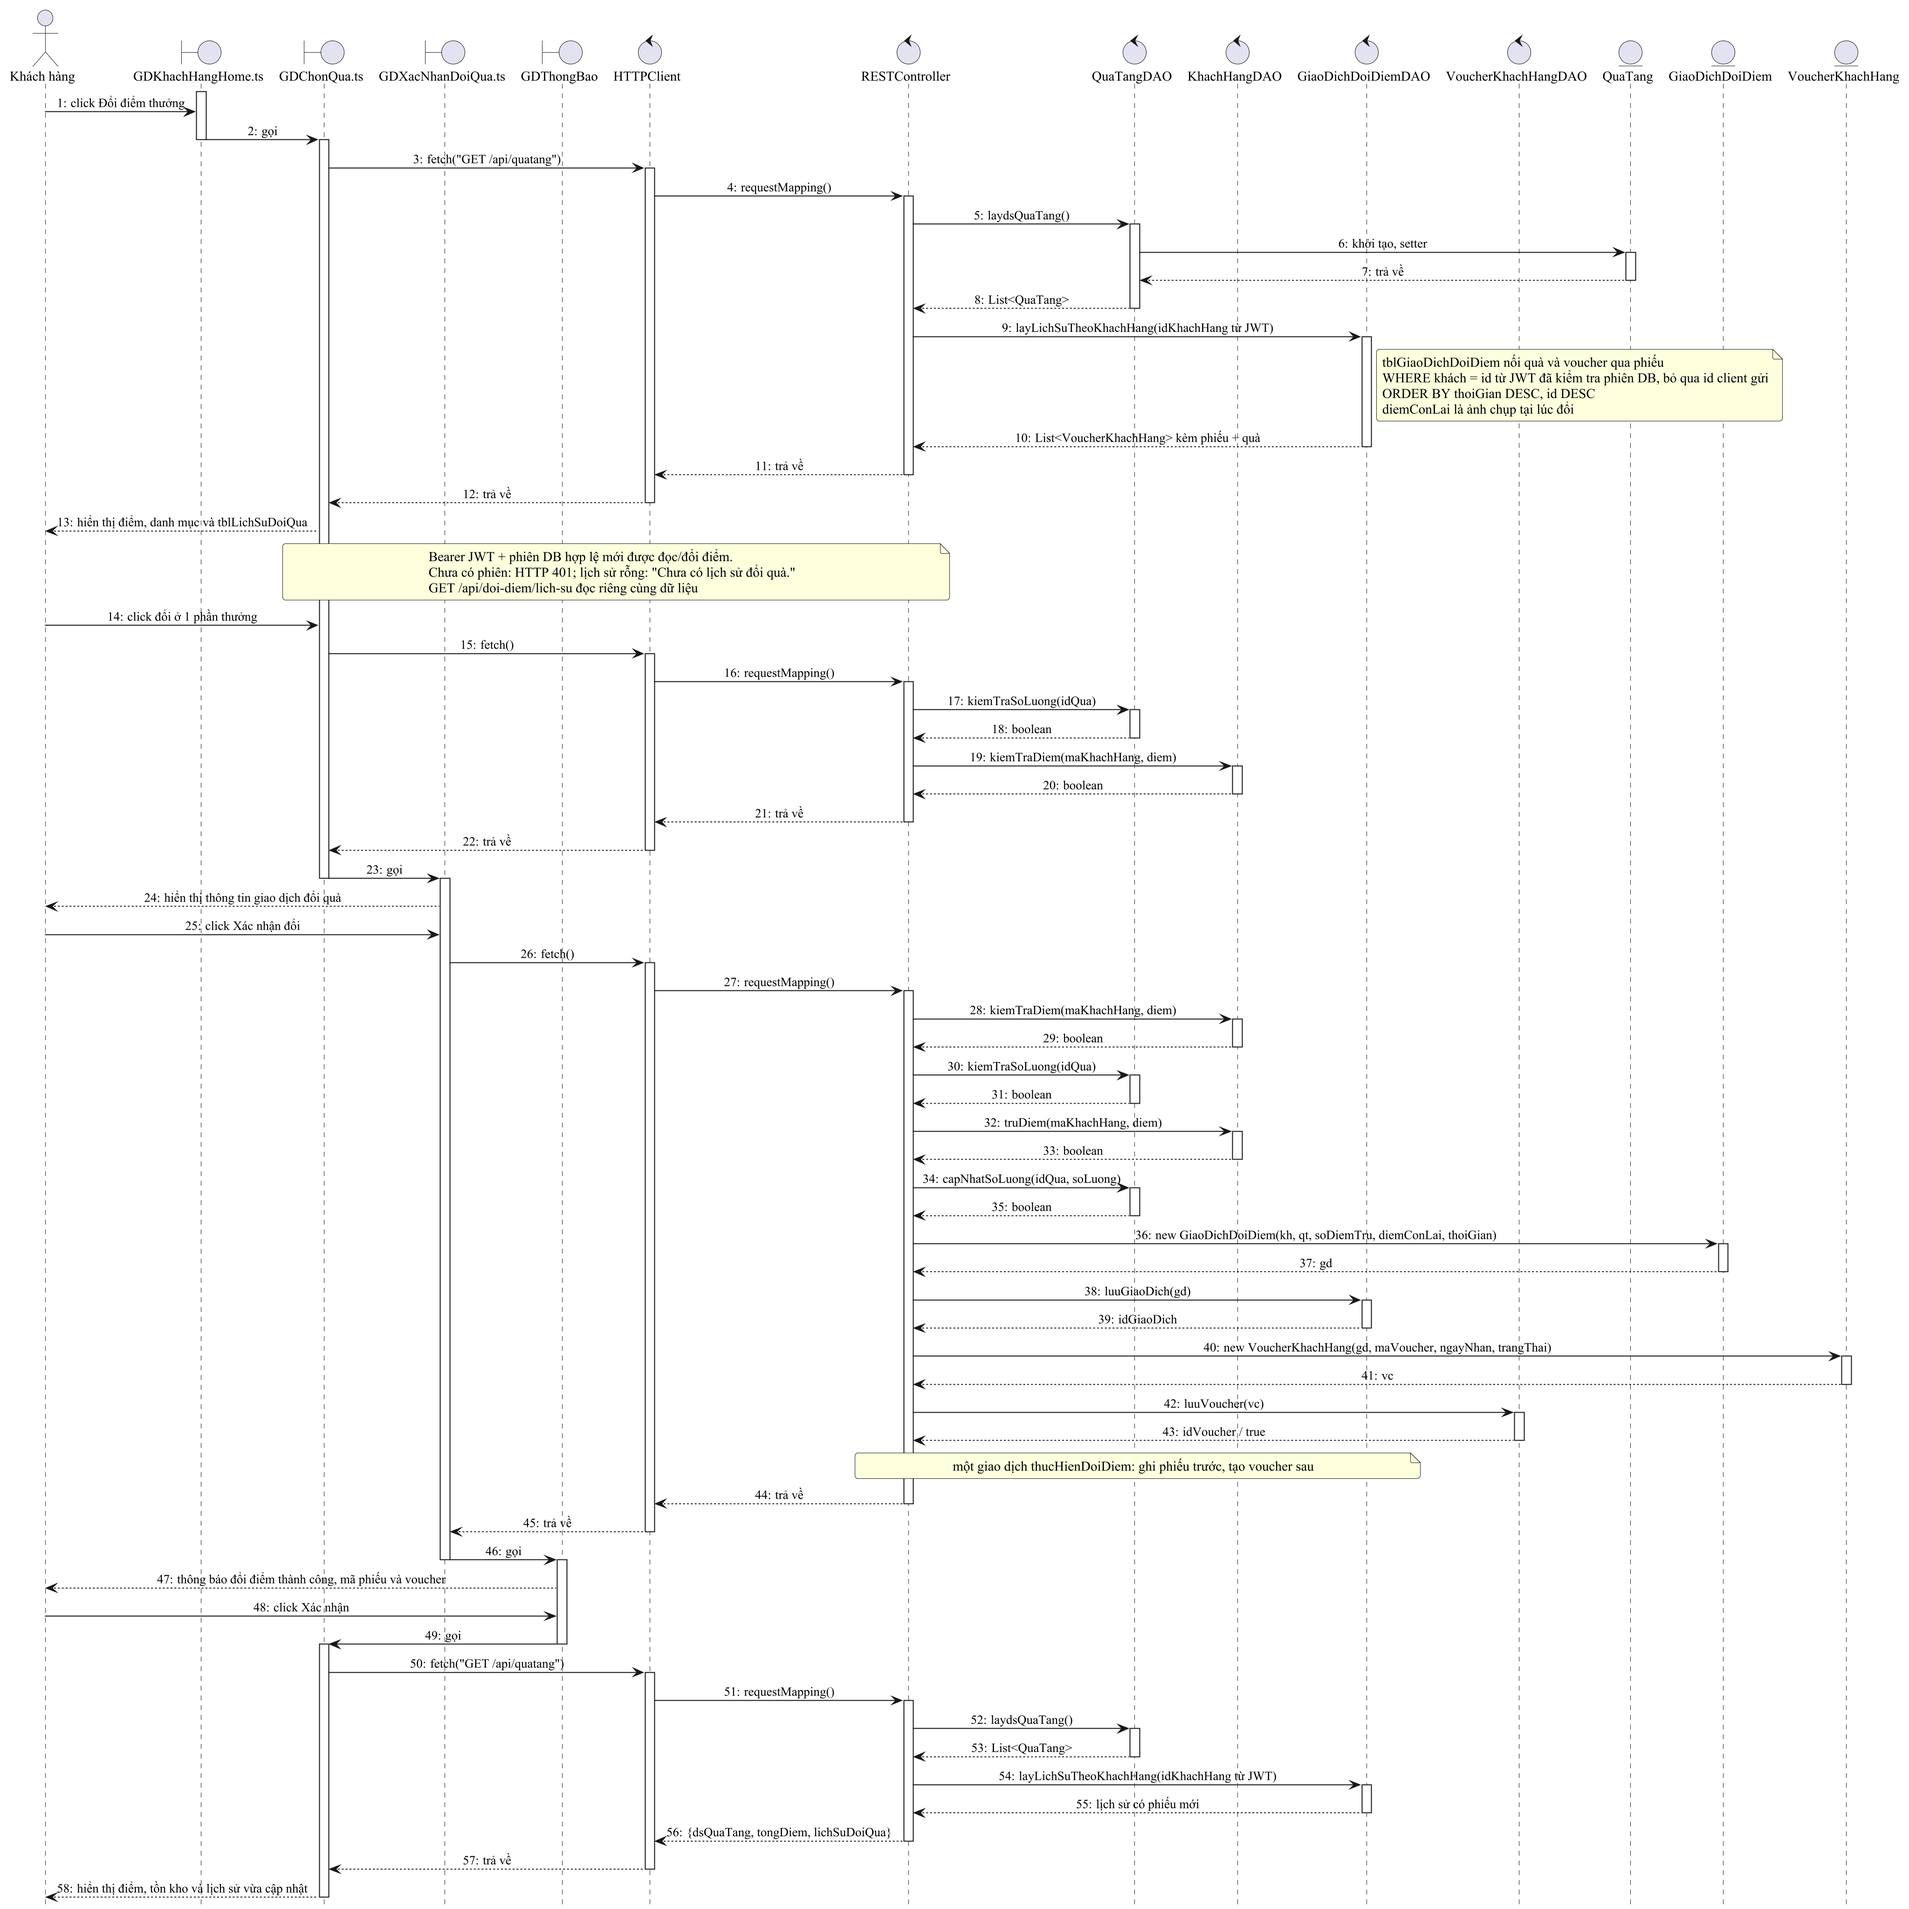
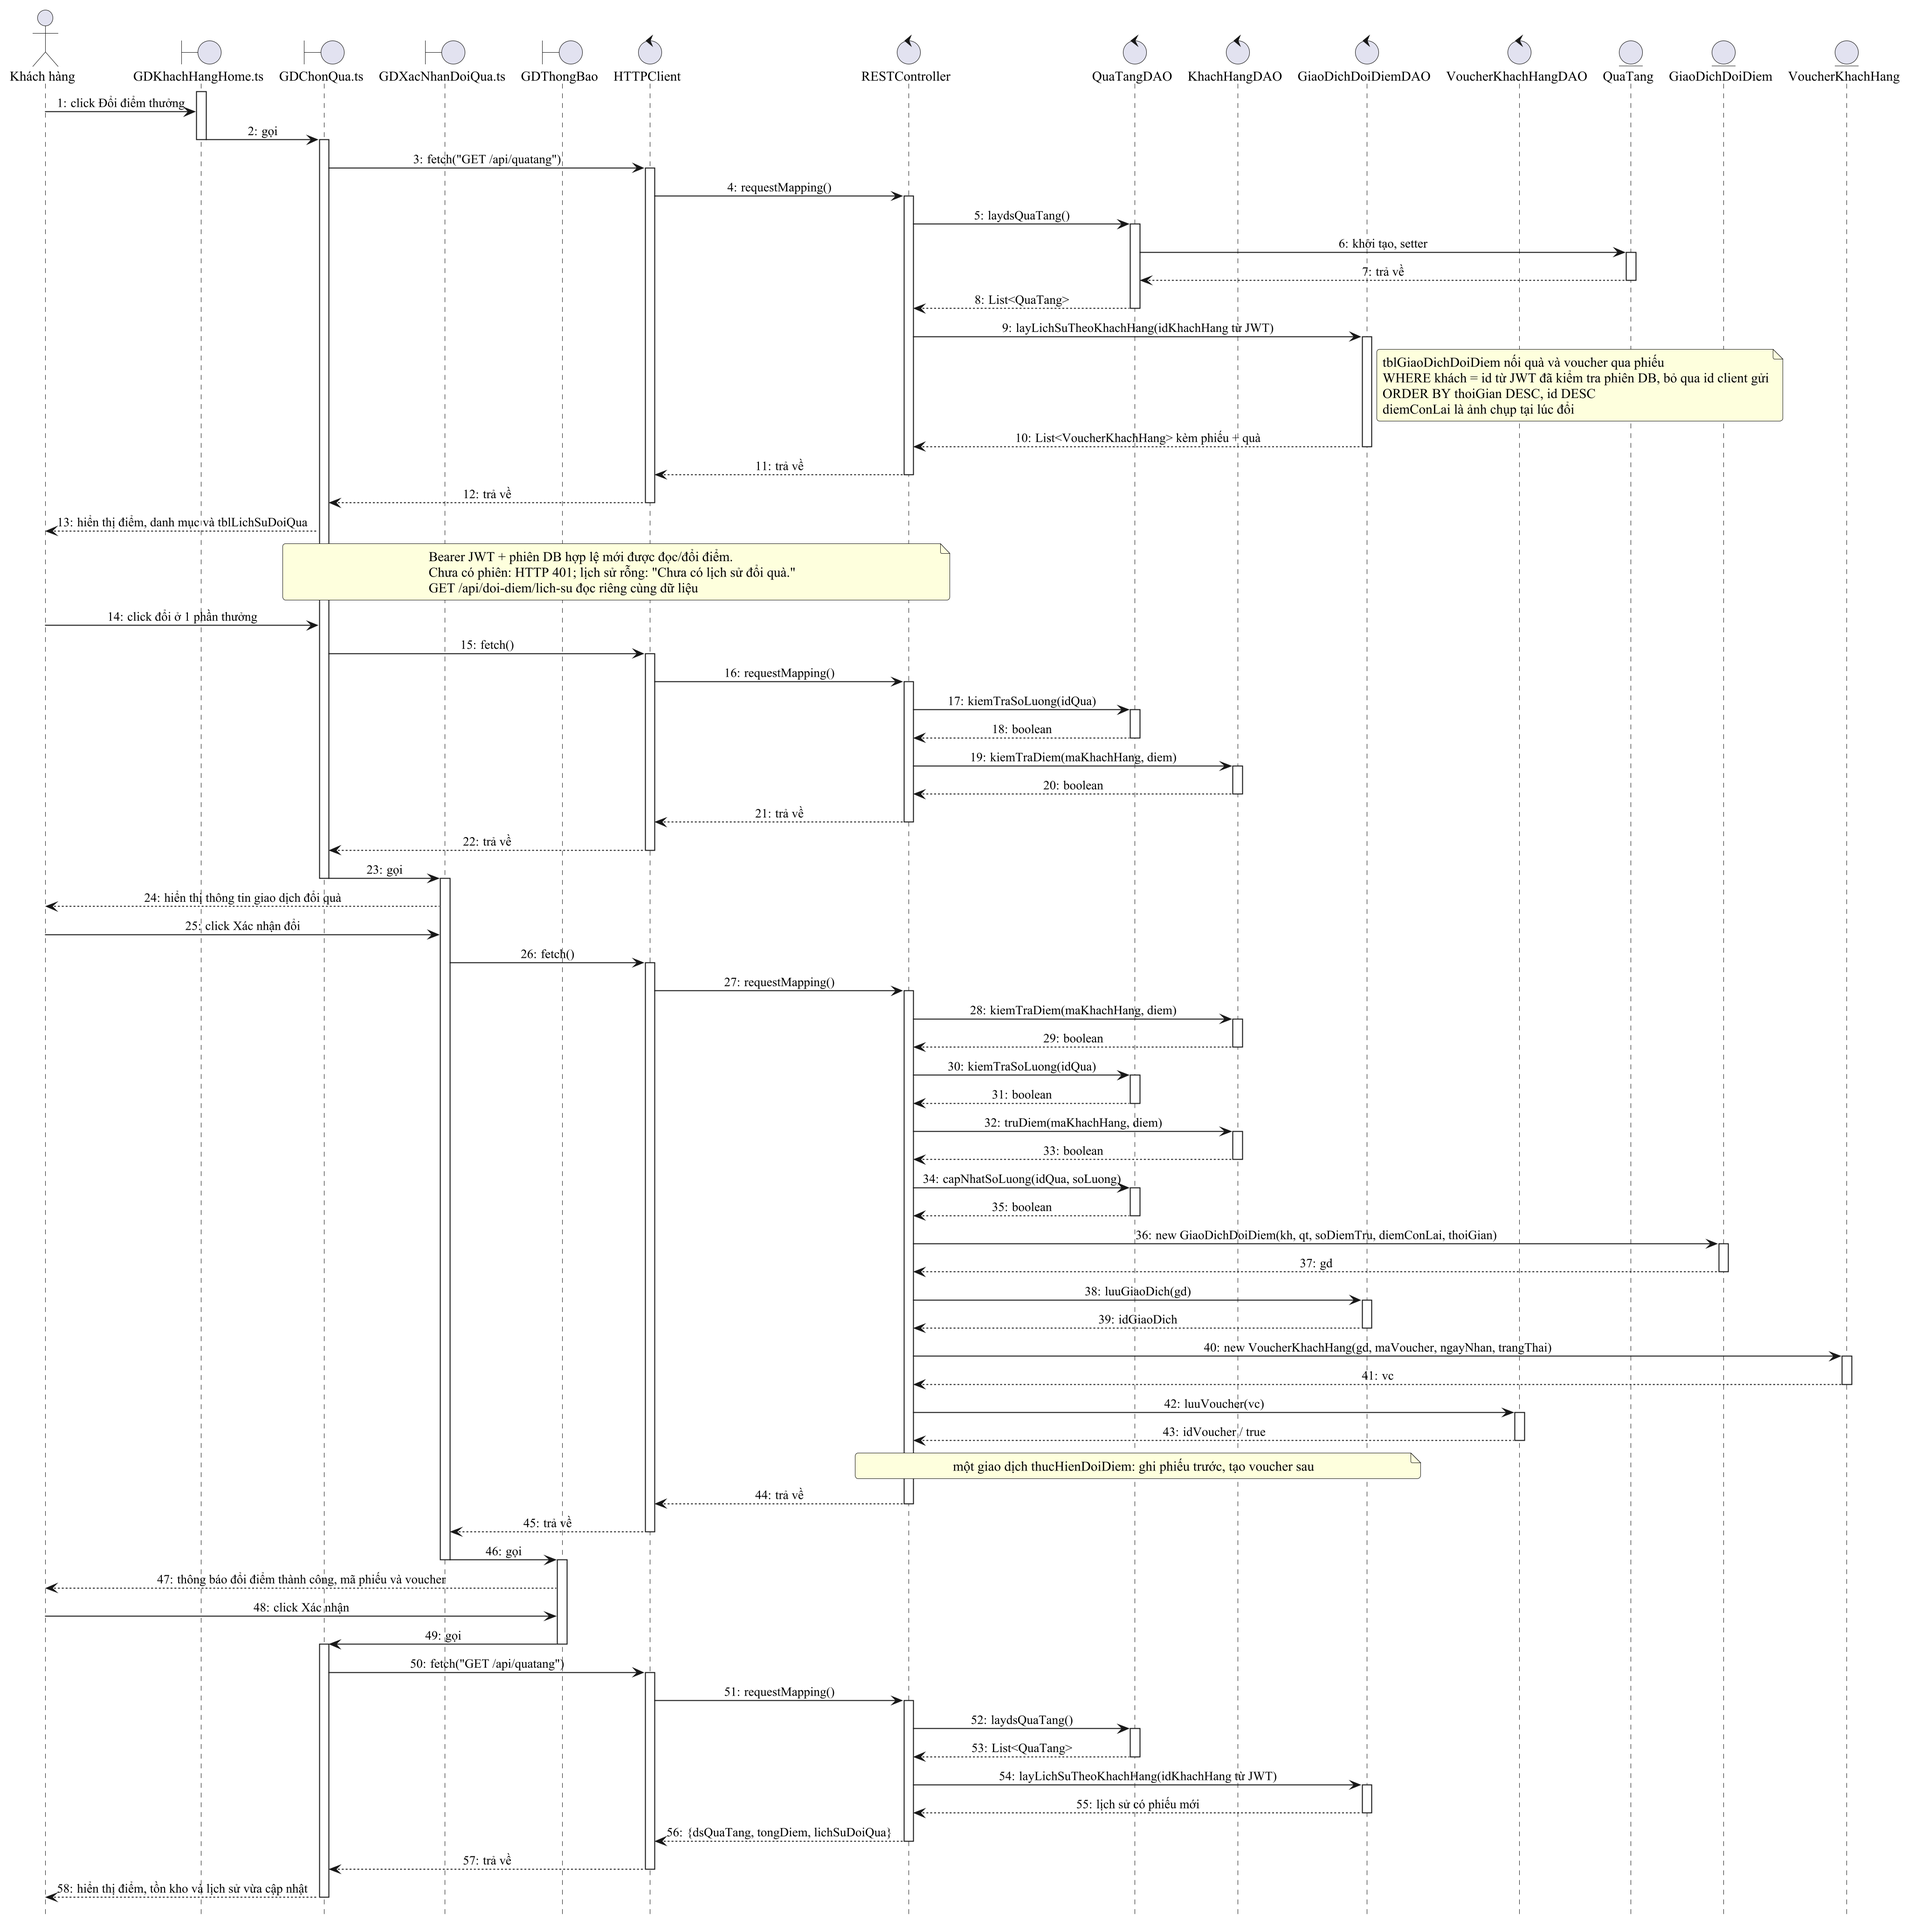
docs(auth): nêu yêu cầu secure context và render sơ đồ không bị cắt

diff --git a/ARCHITECTURE.md b/ARCHITECTURE.md
@@ -273,6 +273,10 @@ tiến trình đặt vé. `HTTPClient.fetch<T>(path, init?)` vẫn trả `data` 
   `AUTH_COOKIE_SECURE` mặc định false cho HTTP demo; HTTPS phải bật true.
   `AUTH_ALLOWED_ORIGINS` mặc định `http://localhost:5173,http://127.0.0.1:5173`; thêm origin triển khai
   qua cấu hình. Không thêm Redis, quản trị thiết bị, đổi mật khẩu, RBAC hay hạ tầng production.
+- Web Locks chỉ tồn tại trong secure context: `localhost`/`127.0.0.1` và HTTPS. Demo HTTP qua IP LAN hoặc
+  hostname Docker không có Web Locks nên UI báo không hỗ trợ và không cho đăng nhập; muốn demo từ máy khác
+  phải dùng HTTPS (bật `AUTH_COOKIE_SECURE=true`). Không thêm fallback một tab: đồng bộ tài khoản giữa tab
+  và chống xoay refresh trùng là yêu cầu đã chốt.
 
 
 ## 8. Seed data (mốc 27/09/2026, R12)
@@ -406,9 +410,11 @@ build và smoke API seed/giữ ghế hết hạn 300 giây thực. Phiên + refr
 khi giữ DB/khóa ký. Client được smoke với hai instance module sản xuất độc lập trên Node 26 dùng Web Locks
 và BroadcastChannel thật, gọi API MySQL: refresh single-flight, login đồng thời, logout chờ login mới,
 thông báo logout cũ, không replay giao dịch dưới tài khoản mới hoặc sau mất phản hồi.
-Đây không phải kiểm chứng trình duyệt: Lightpanda ở origin local không cung cấp Web Locks; DOM đã
-xác nhận màn thông báo không hỗ trợ. Chưa kiểm chứng đầy đủ luồng login/nhiều tab hoặc bố cục bằng mắt
-trong trình duyệt có Web Locks; Lightpanda không tạo ảnh render.
+Đây không phải kiểm chứng trình duyệt đầy đủ. Lightpanda ở origin local không cung cấp Web Locks và
+báo sai `Response.status` của HTTP 401 thành 407; khi kiểm tra DOM đã dùng script chỉ sửa hai điểm này
+của engine (không sửa ứng dụng) để chạy luồng thật `DangNhap` → trang chủ → reload khôi phục → đăng xuất,
+lặp 5 lần và đồng bộ đăng xuất sang tab thứ hai. Web Locks thật giữa nhiều tab, đồng hồ/độ trễ thực và
+bố cục hiển thị vẫn chưa được kiểm chứng trong trình duyệt chuẩn; Lightpanda không tạo ảnh render.
 
 `npm ci` cài đúng theo `package-lock.json` (Dockerfile dùng lệnh này); `npm install` chỉ khi cần cập nhật lockfile.
 `API_PROXY_TARGET` mặc định `http://localhost:8080`, trong compose đặt `http://backend:8080`.

diff --git a/README.md b/README.md
@@ -153,7 +153,7 @@ npm ci
 npm run dev
 ```
 
-Mở http://localhost:5173. Proxy API mặc định trỏ tới `http://localhost:8080`; đặt `API_PROXY_TARGET` khi backend chạy ở địa chỉ khác. Truy cập qua frontend để `/api` và cookie refresh cùng origin. Trình duyệt cần hỗ trợ Web Locks và BroadcastChannel để phối hợp các tab.
+Mở http://localhost:5173. Proxy API mặc định trỏ tới `http://localhost:8080`; đặt `API_PROXY_TARGET` khi backend chạy ở địa chỉ khác. Truy cập qua frontend để `/api` và cookie refresh cùng origin. Trình duyệt cần hỗ trợ Web Locks và BroadcastChannel để phối hợp các tab. Web Locks chỉ có trong secure context, nên mở qua IP LAN/hostname bằng HTTP sẽ bị từ chối đăng nhập; khi cần truy cập từ máy khác phải chạy HTTPS và đặt `AUTH_COOKIE_SECURE=true`.
 
 ## Kiểm thử và build
 
